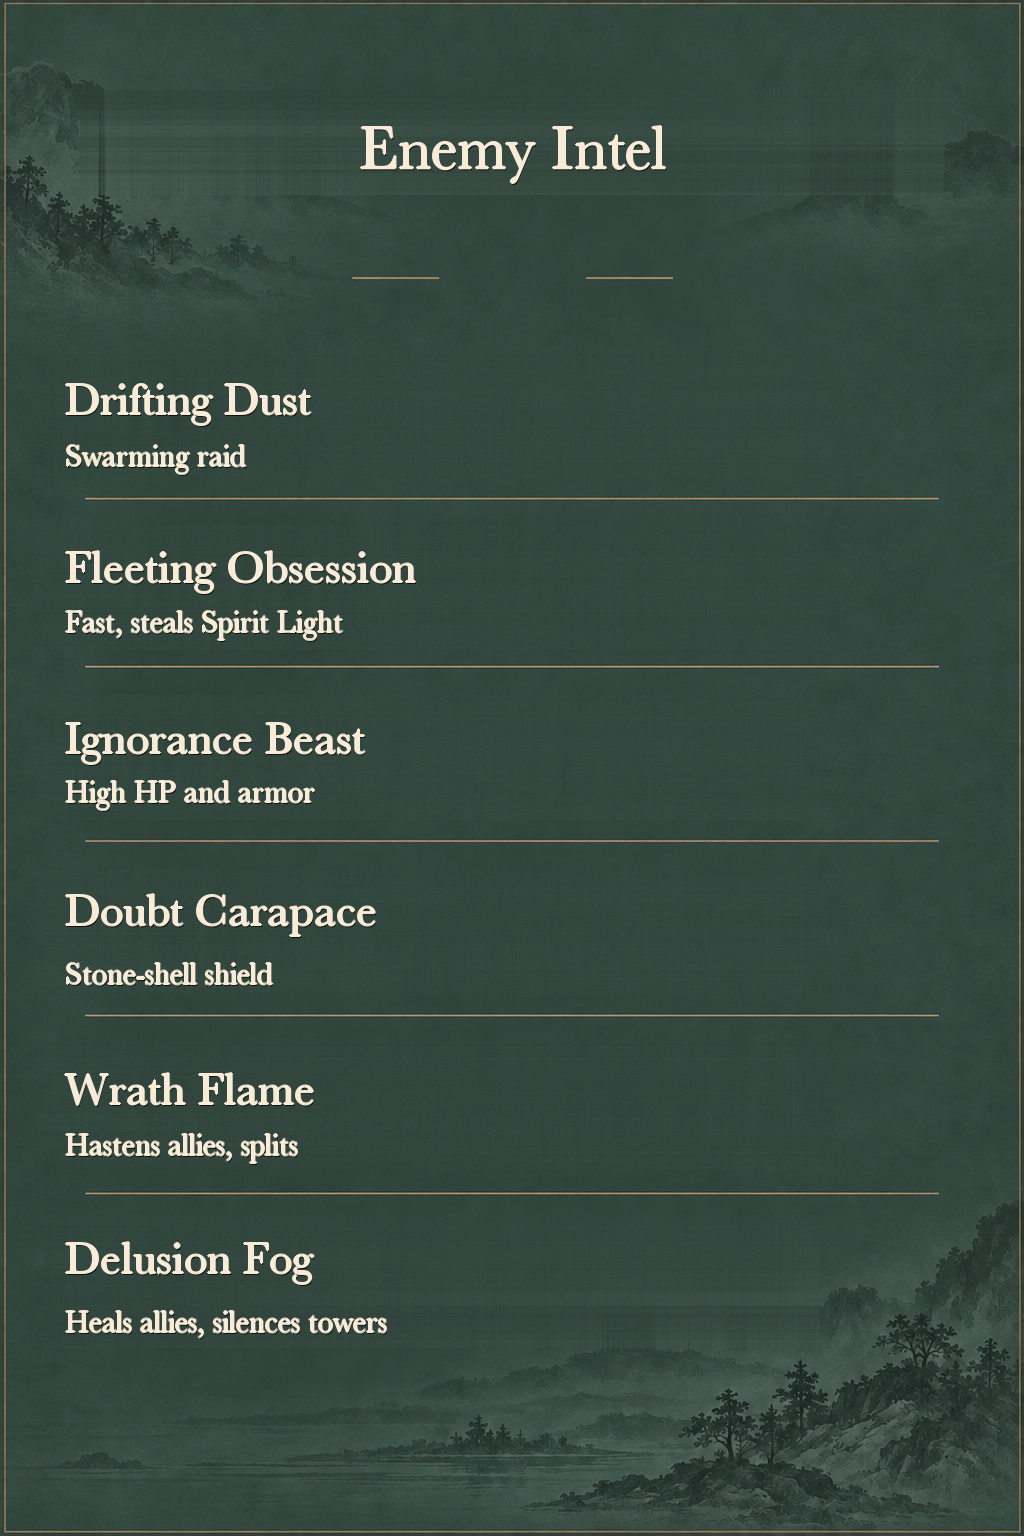
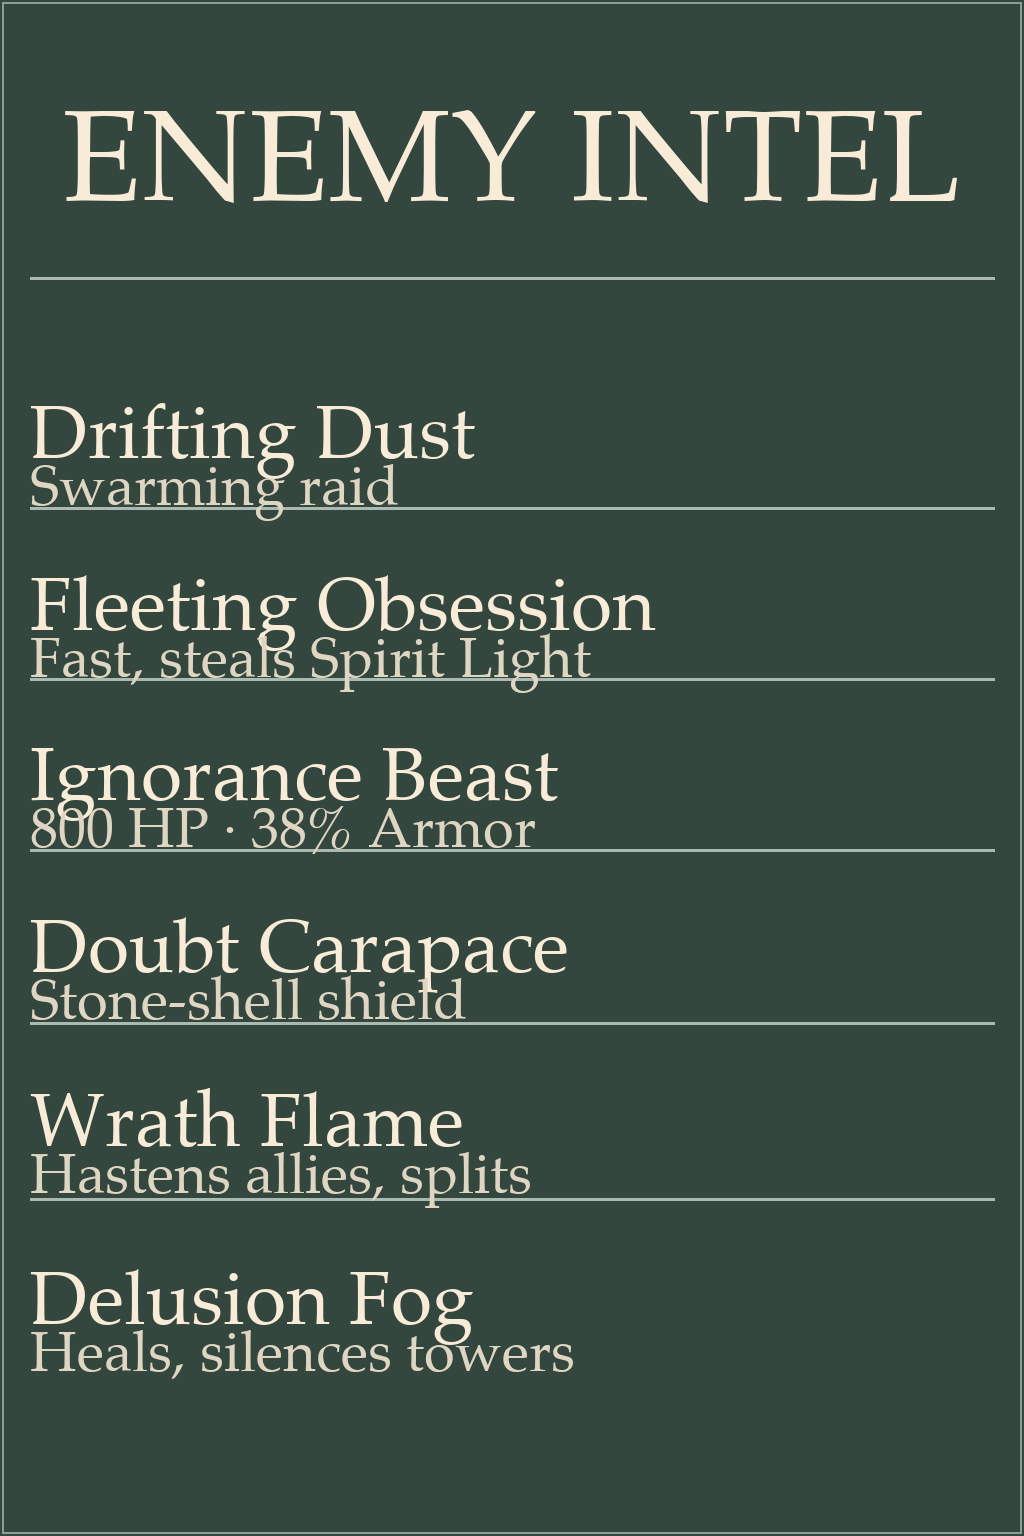
一念莲城面板文字 VR 可读性修复 + 开始按钮触觉与音效 (polish-20261022)
面板修复（规范 C）：
- Status 面板：高度 0.30→0.50m，列标题字号从 43px 增至 100px（帽高 69px=47.6mm≥45.4mm），数字高度 0.055/0.050→0.070m
- Briefing 面板：尺寸 0.50×0.75→0.60×1.40m；"ENEMY INTEL" 130px 帽高 90px=82.0mm≥78.1mm ✓，敌人名称 75px 帽高 52px=47.4mm ✓，描述 56px 帽高 39px=35.5mm≥33.5mm ✓
- 敌人数字覆盖层高度 0.035→0.052m，波次数字 0.028→0.072m
- 观看距离：Status 2.67m，Briefing 2.79m

开始按钮（规范 A）：
- 悬停进入：Pulse/PulseAttack(0.15f, 0.02f) 双手触觉
- 按下：Pulse/PulseAttack(0.40f, 0.04f) + 木击音效 med_ui_soft_02 播放
- 悬停覆盖层亮度提升：START 0.33→0.52，EXIT 0.18→0.32
- 音效来自 ange-embed ui_audio (med_ui_soft_02, med_pos_hard_01)，运行时 Resources.Load 加载

Editor batchmode：
- 新增 ProjectSetup.ApplyPolish20261022() 用于 -executeMethod 一键导入贴图与音效

diff --git a/Assets/SpatialTowerDefense/Runtime/LotusTitleStage.cs b/Assets/SpatialTowerDefense/Runtime/LotusTitleStage.cs
@@ -36,6 +36,11 @@ namespace PicoTowerDefense
         private bool _inputHasSettled;
         private int _inputSettledFrame;
         private int _pointerReadyFrame;
+        // Hover edge detection for haptic pulse on entry
+        private bool _wasHoveringStart;
+        private bool _wasHoveringExit;
+        // Wood-hit UI click audio (loaded from Resources at runtime)
+        private AudioSource _clickAudio;
 
         public Transform TitleRoot => _titleRoot;
         public Camera TitleCamera => _input != null ? _input.Camera : null;
@@ -80,6 +85,18 @@ namespace PicoTowerDefense
             bool rightHoveringExit = rightHitCollider == _exitCollider;
             bool hoveringStart = leftHoveringStart || rightHoveringStart;
             bool hoveringExit = leftHoveringExit || rightHoveringExit;
+
+            // Haptic feedback on hover entry (spec A: 0.15 strength, 20ms).
+            bool enteredStart = hoveringStart && !_wasHoveringStart;
+            bool enteredExit  = hoveringExit  && !_wasHoveringExit;
+            if (enteredStart || enteredExit)
+            {
+                _input.Pulse(0.15f, 0.02f);
+                _input.PulseAttack(0.15f, 0.02f);
+            }
+            _wasHoveringStart = hoveringStart;
+            _wasHoveringExit  = hoveringExit;
+
             SetButtonFeedback(hoveringStart, hoveringExit, _pressArmed || _rightPressArmed);
             _input.SetAimVisual(hit ? hitInfo.point : ray.origin + ray.direction * 5f, hit);
             _input.SetAttackVisual(rightHit ? rightHitInfo.point : rightRay.origin + rightRay.direction * 5f, rightHit);
@@ -115,6 +132,12 @@ namespace PicoTowerDefense
             if (confirmDown && inputReady && Time.frameCount > _inputSettledFrame)
             {
                 _pressArmed = CanActivateStart(leftHoveringStart);
+                if (leftHoveringStart || leftHoveringExit)
+                {
+                    // Haptic + audio feedback on left-hand press (spec A: 0.4 strength, 40ms).
+                    _input.Pulse(0.40f, 0.04f);
+                    if (_clickAudio != null && _clickAudio.clip != null) _clickAudio.Play();
+                }
                 if (leftHoveringExit)
                 {
                     ExitApplication();
@@ -128,6 +151,12 @@ namespace PicoTowerDefense
             if (rightDown && inputReady && Time.frameCount > _inputSettledFrame)
             {
                 _rightPressArmed = CanActivateStart(rightHoveringStart);
+                if (rightHoveringStart || rightHoveringExit)
+                {
+                    // Haptic + audio feedback on right-hand press (spec A: 0.4 strength, 40ms).
+                    _input.PulseAttack(0.40f, 0.04f);
+                    if (_clickAudio != null && _clickAudio.clip != null) _clickAudio.Play();
+                }
                 if (rightHoveringExit)
                 {
                     ExitApplication();
@@ -223,17 +252,19 @@ namespace PicoTowerDefense
             _pressedRenderer.enabled = false;
 
             // The original Figma frame remains the visual source. These two
-            // overlays occupy exactly the current button bounds and only add
-            // a warm/cool translucent wash while a controller ray hovers.
-            // No scale animation is used, so the button sizes never change.
-            _startHoverMaterial = CreateHoverMaterial(new Color(0.96f, 0.72f, 0.29f, 0.33f));
+            // overlays occupy exactly the current button bounds and add a
+            // warm/cool translucent wash while a controller ray hovers.
+            // Brightness increased from 0.33→0.52 alpha for visible hover cue (spec A).
+            // No scale animation is used, so the button hit areas never change.
+            _startHoverMaterial = CreateHoverMaterial(new Color(1.00f, 0.85f, 0.38f, 0.52f));
             _startHoverRenderer = CreateTitleFeedbackOverlay(
                 "START Hover Colour Feedback",
                 TitleArtPosition(394f, 600.5f, coverWidth, coverHeight, -0.006f),
                 new Vector3(coverWidth * 390f / 1920f, coverHeight * 87f / 1080f, 1f),
                 _startHoverMaterial,
                 arrowShape: true);
-            _exitHoverMaterial = CreateHoverMaterial(new Color(0.20f, 0.55f, 0.48f, 0.18f));
+            // EXIT hover alpha increased from 0.18→0.32 for visible hover cue (spec A).
+            _exitHoverMaterial = CreateHoverMaterial(new Color(0.22f, 0.65f, 0.56f, 0.32f));
             _exitHoverRenderer = CreateTitleFeedbackOverlay(
                 "EXIT Hover Colour Feedback",
                 TitleArtPosition(362f, 688f, coverWidth, coverHeight, -0.006f),
@@ -256,6 +287,18 @@ namespace PicoTowerDefense
 
             BillboardText titleFacing = _titleRoot.gameObject.AddComponent<BillboardText>();
             titleFacing.Target = _input.Camera.transform;
+
+            // Set up 2D UI click audio (wood-hit sound, ange-embed ui_audio med_ui_soft_02).
+            // The clip is loaded from Resources at runtime so no Inspector assignment is needed.
+            var audioGo = new GameObject("Title Button Click Audio");
+            audioGo.transform.SetParent(_titleRoot, false);
+            _clickAudio = audioGo.AddComponent<AudioSource>();
+            _clickAudio.playOnAwake = false;
+            _clickAudio.spatialBlend = 0f;   // 2D: heard at constant volume regardless of head pose
+            _clickAudio.volume = 0.80f;
+            AudioClip clip = Resources.Load<AudioClip>("UI/Audio/med_ui_soft_02");
+            if (clip != null) _clickAudio.clip = clip;
+
             ConfigureDesktopTitleStart();
             _inputEnabledAt = Time.unscaledTime + 2f;
             _inputHasSettled = false;
@@ -267,6 +310,8 @@ namespace PicoTowerDefense
             // callback can still extend it to filter its own OS click.
             _pointerReadyFrame = Time.frameCount + 12;
             _rightTriggerWasPressed = false;
+            _wasHoveringStart = false;
+            _wasHoveringExit = false;
             Debug.Log("[Yi Nian Lotus City] Title scene ready: only the opaque Figma title shrine is active; gameplay scene is not loaded.");
         }
 

diff --git a/Assets/SpatialTowerDefense/Editor/ProjectSetup.cs b/Assets/SpatialTowerDefense/Editor/ProjectSetup.cs
@@ -992,6 +992,67 @@ namespace PicoTowerDefenseEditor
             graphicsSettings.ApplyModifiedPropertiesWithoutUndo();
         }
 
+        // ---------------------------------------------------------------------------
+        // Polish-20261022: batchmode-safe import + scene-save step
+        // Run via: unity -buildTarget Android -executeMethod PicoTowerDefenseEditor.ProjectSetup.ApplyPolish20261022
+        // ---------------------------------------------------------------------------
+        [MenuItem("Tools/Spatial Tower Defense/Apply Polish 2026-10-22")]
+        public static void ApplyPolish20261022()
+        {
+            // 1. Force reimport regenerated panel textures (Status, Briefing).
+            //    GeneratedPanelImporter.OnPreprocessTexture applies the correct
+            //    import settings automatically on reimport.
+            foreach (string texPath in new[]
+            {
+                "Assets/SpatialTowerDefense/Resources/UI/GeneratedV5/Status.png",
+                "Assets/SpatialTowerDefense/Resources/UI/GeneratedV5/Briefing.png",
+            })
+            {
+                if (AssetImporter.GetAtPath(texPath) is TextureImporter ti)
+                {
+                    ti.SaveAndReimport();
+                    Debug.Log($"[Polish] Reimported texture: {texPath}");
+                }
+                else
+                {
+                    Debug.LogWarning($"[Polish] Texture not found (will be imported on next refresh): {texPath}");
+                }
+            }
+
+            // 2. Import and configure the new UI button audio clips.
+            foreach (string audioPath in new[]
+            {
+                "Assets/SpatialTowerDefense/Resources/UI/Audio/med_ui_soft_02.mp3",
+                "Assets/SpatialTowerDefense/Resources/UI/Audio/med_pos_hard_01.mp3",
+            })
+            {
+                if (AssetImporter.GetAtPath(audioPath) is AudioImporter ai)
+                {
+                    var settings = ai.defaultSampleSettings;
+                    settings.loadType = AudioClipLoadType.CompressedInMemory;
+                    settings.compressionFormat = AudioCompressionFormat.Vorbis;
+                    settings.sampleRateSetting = AudioSampleRateSetting.OptimizeSampleRate;
+                    settings.quality = 0.78f;
+                    settings.preloadAudioData = true;
+                    ai.defaultSampleSettings = settings;
+                    ai.forceToMono = false;
+                    ai.loadInBackground = false;
+                    ai.SaveAndReimport();
+                    Debug.Log($"[Polish] Imported audio: {audioPath}");
+                }
+                else
+                {
+                    // Asset not yet tracked — refresh first then retry.
+                    AssetDatabase.ImportAsset(audioPath, ImportAssetOptions.ForceSynchronousImport);
+                    Debug.Log($"[Polish] Force-imported audio: {audioPath}");
+                }
+            }
+
+            AssetDatabase.SaveAssets();
+            AssetDatabase.Refresh();
+            Debug.Log("[Polish-20261022] Texture reimport and audio import complete. Run Verify to check all panels.");
+        }
+
         private static void ConfigureAudioImporters()
         {
             ConfigureAudioImporter("Assets/Resources/Audio/LotusCityMusic.wav", true);

diff --git a/Assets/SpatialTowerDefense/Runtime/SpatialTowerDefenseGame.cs b/Assets/SpatialTowerDefense/Runtime/SpatialTowerDefenseGame.cs
@@ -1767,21 +1767,31 @@ namespace PicoTowerDefense
         private void BuildStatusDisplay()
         {
             _statusHudRoot = PanelRoot("World Status HUD", new Vector3(0f, 1.90f, 0.26f));
-            GeneratedLotusPanel.Create(_statusHudRoot, "Generated Status HUD", "Status", new Vector2(0.90f, 0.30f), Vector3.zero);
-            _goldDigits = GeneratedLotusPanel.Digits(_statusHudRoot, new Vector3(-0.30f, -0.042f, -0.003f), 0.055f);
-            _lifeDigits = GeneratedLotusPanel.Digits(_statusHudRoot, new Vector3(0f, -0.042f, -0.003f), 0.050f);
-            _waveDigits = GeneratedLotusPanel.Digits(_statusHudRoot, new Vector3(0.30f, -0.042f, -0.003f), 0.050f);
+            // Panel enlarged from 0.90x0.30 → 0.90x0.50m so baked column labels meet
+            // VR spec C body minimum (45.4mm cap height at 2.67m viewing distance).
+            GeneratedLotusPanel.Create(_statusHudRoot, "Generated Status HUD", "Status", new Vector2(0.90f, 0.50f), Vector3.zero);
+            // Digit heights enlarged from 0.055/0.050 → 0.070m: cap ≈ 47.6mm ≥ 45.4mm body min.
+            _goldDigits = GeneratedLotusPanel.Digits(_statusHudRoot, new Vector3(-0.30f, -0.042f, -0.003f), 0.070f);
+            _lifeDigits = GeneratedLotusPanel.Digits(_statusHudRoot, new Vector3(0f, -0.042f, -0.003f), 0.070f);
+            _waveDigits = GeneratedLotusPanel.Digits(_statusHudRoot, new Vector3(0.30f, -0.042f, -0.003f), 0.070f);
         }
 
         private void BuildWaveBriefingDisplay()
         {
             _waveBriefingRoot = PanelRoot("Next Wave Enemy Skill Briefing", new Vector3(-1.55f, 1.80f, -0.10f));
-            GeneratedLotusPanel.Create(_waveBriefingRoot, "Generated Enemy Briefing", "Briefing", new Vector2(0.50f, 0.75f), Vector3.zero);
-            _briefingWaveDigits = GeneratedLotusPanel.Digits(_waveBriefingRoot, new Vector3(0f, 0.239f, -0.003f), 0.028f);
+            // Panel enlarged from 0.50x0.75 → 0.60x1.40m so baked enemy names meet
+            // VR spec C body minimum (47.4mm cap height at 2.79m viewing distance).
+            // Row positions (rows[] fractions) unchanged; only the scale factor updates.
+            GeneratedLotusPanel.Create(_waveBriefingRoot, "Generated Enemy Briefing", "Briefing", new Vector2(0.60f, 1.40f), Vector3.zero);
+            // Wave digit: height 0.028→0.072m (cap ≈ 49mm ≥ 47.4mm body min);
+            // Y position scaled proportionally: 0.239 × (1.40/0.75) ≈ 0.446m.
+            _briefingWaveDigits = GeneratedLotusPanel.Digits(_waveBriefingRoot, new Vector3(0f, 0.446f, -0.003f), 0.072f);
             float[] rows = { 0.275f, 0.387f, 0.498f, 0.610f, 0.723f, 0.839f };
             for (int i = 0; i < 6; i++)
+                // Enemy count digit: height 0.035→0.052m (cap ≈ 35.4mm ≥ 33.5mm secondary min);
+                // Y multiplier updated from 0.75 → 1.40 to match enlarged panel height.
                 _enemyCountDigits[i] = GeneratedLotusPanel.Digits(_waveBriefingRoot,
-                    new Vector3(0.1175f, (0.5f - rows[i]) * 0.75f, -0.003f), 0.035f, 3);
+                    new Vector3(0.1175f, (0.5f - rows[i]) * 1.40f, -0.003f), 0.052f, 3);
         }
 
         private void BuildInteractionGuide()
